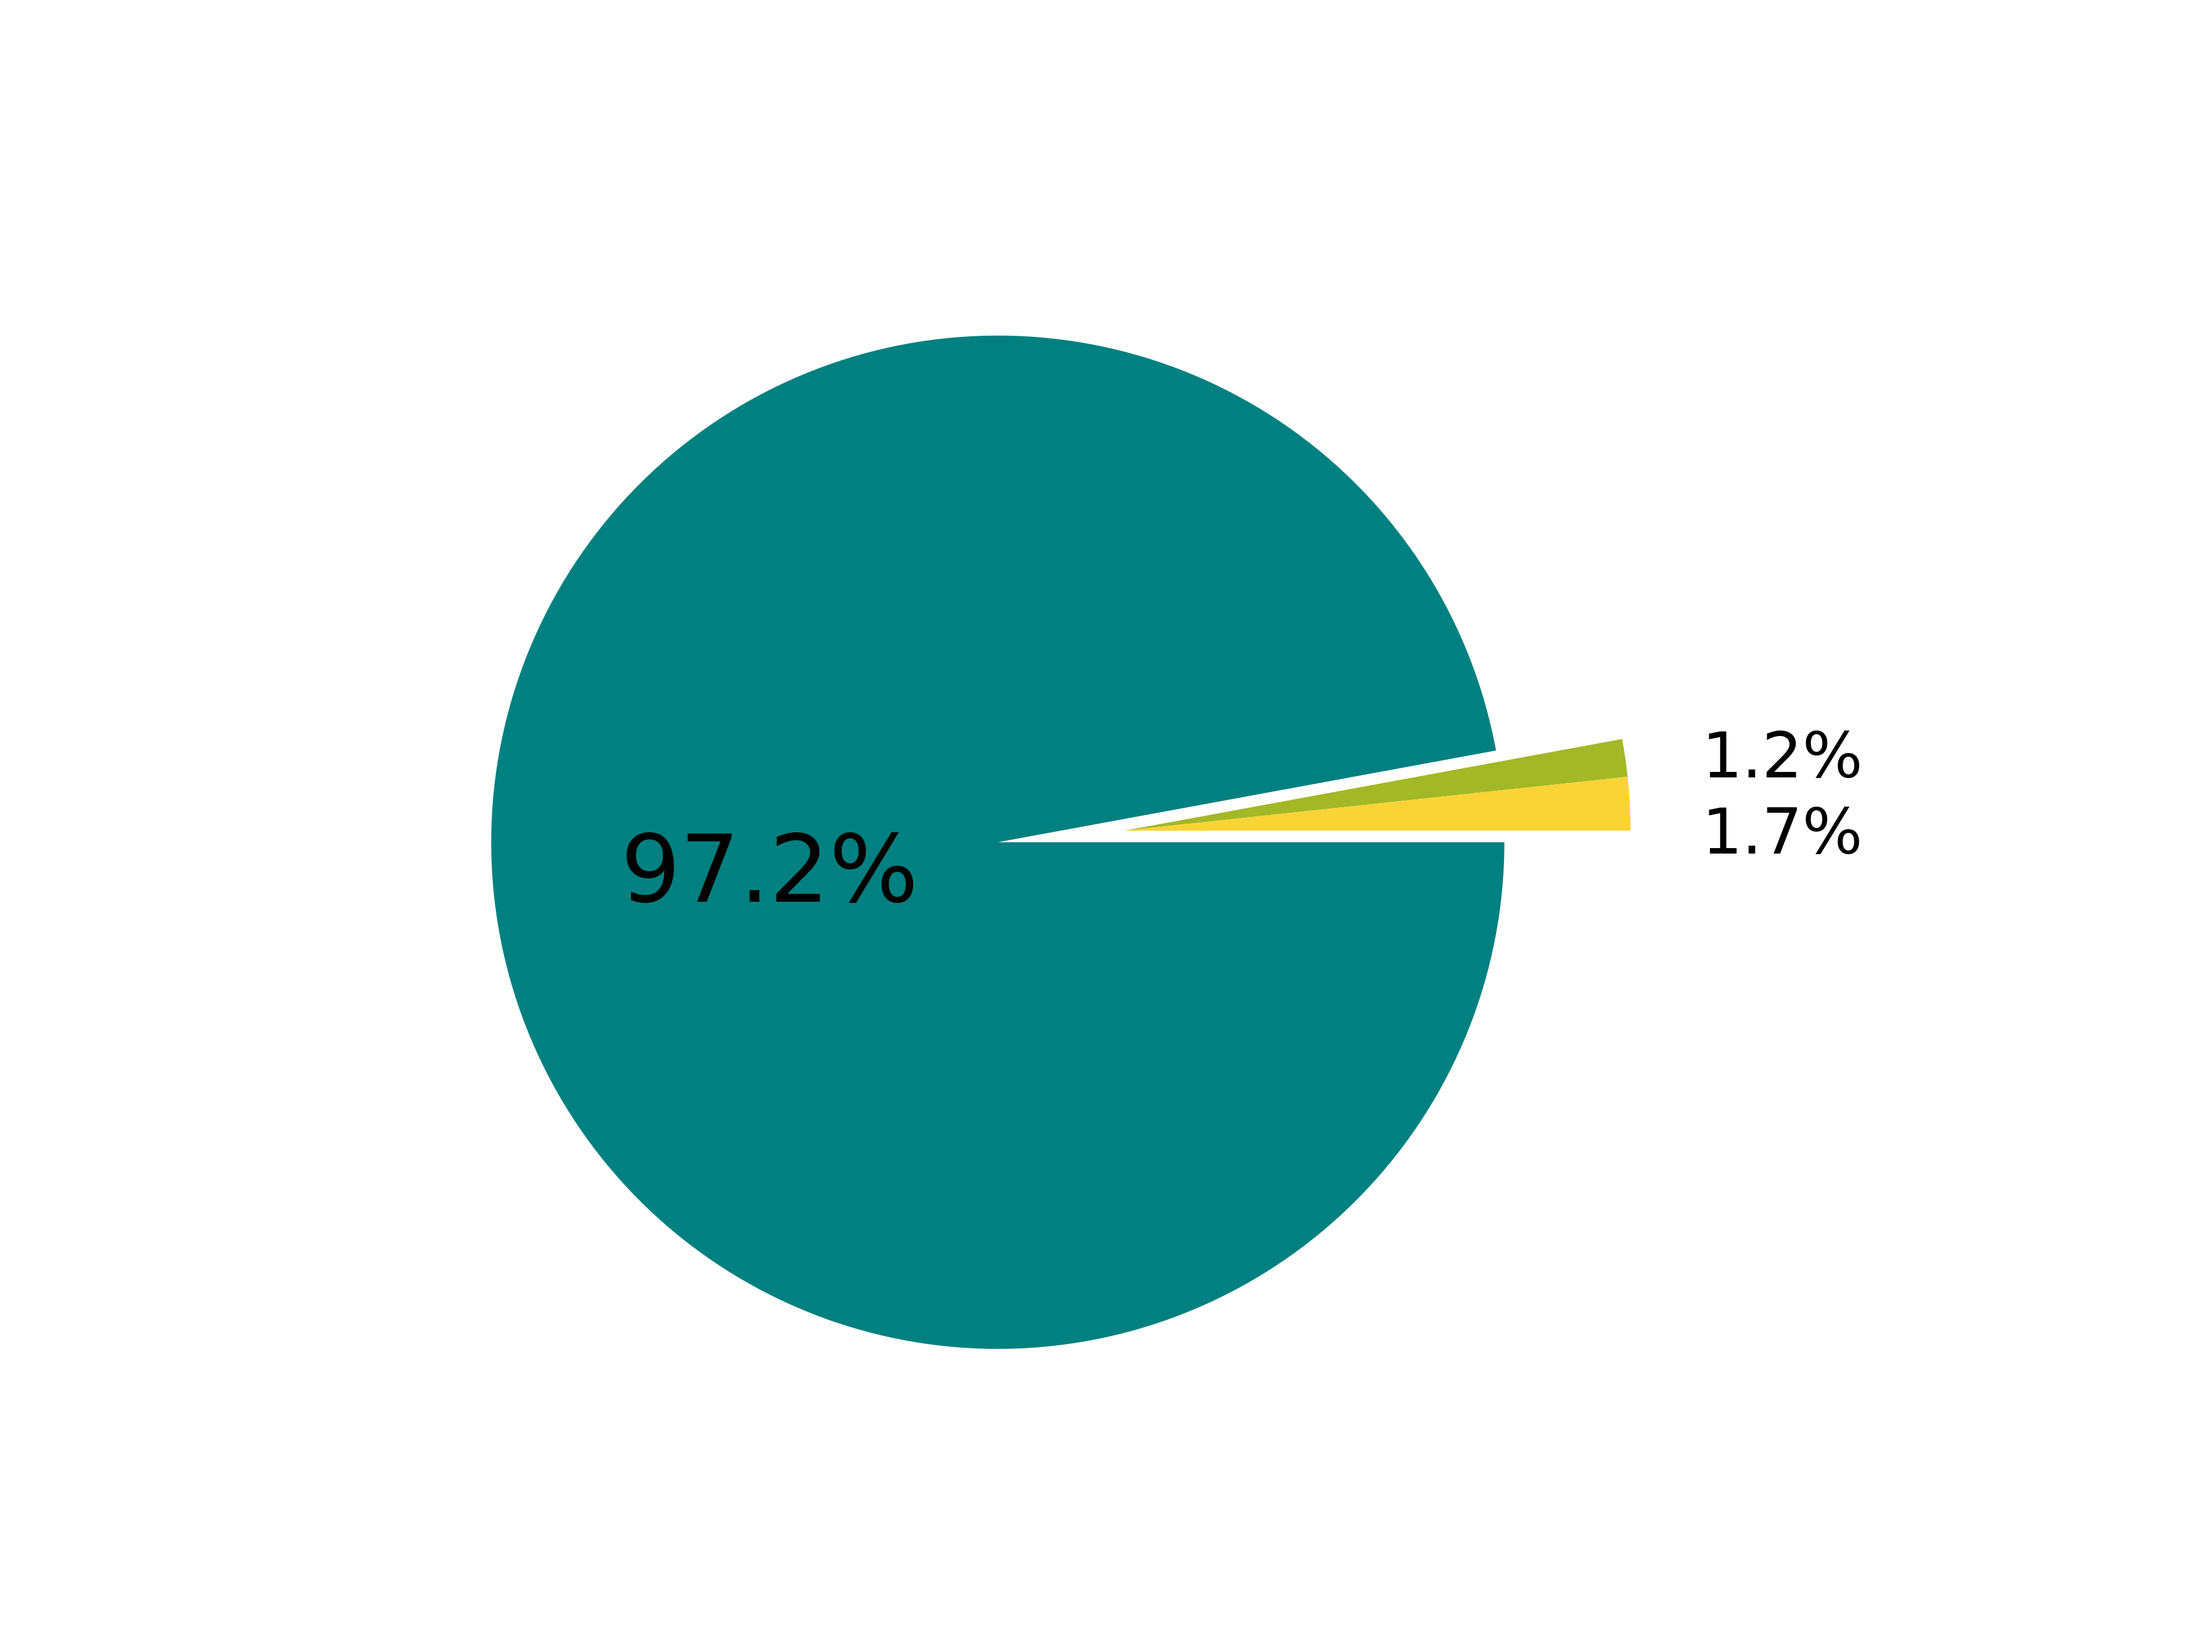
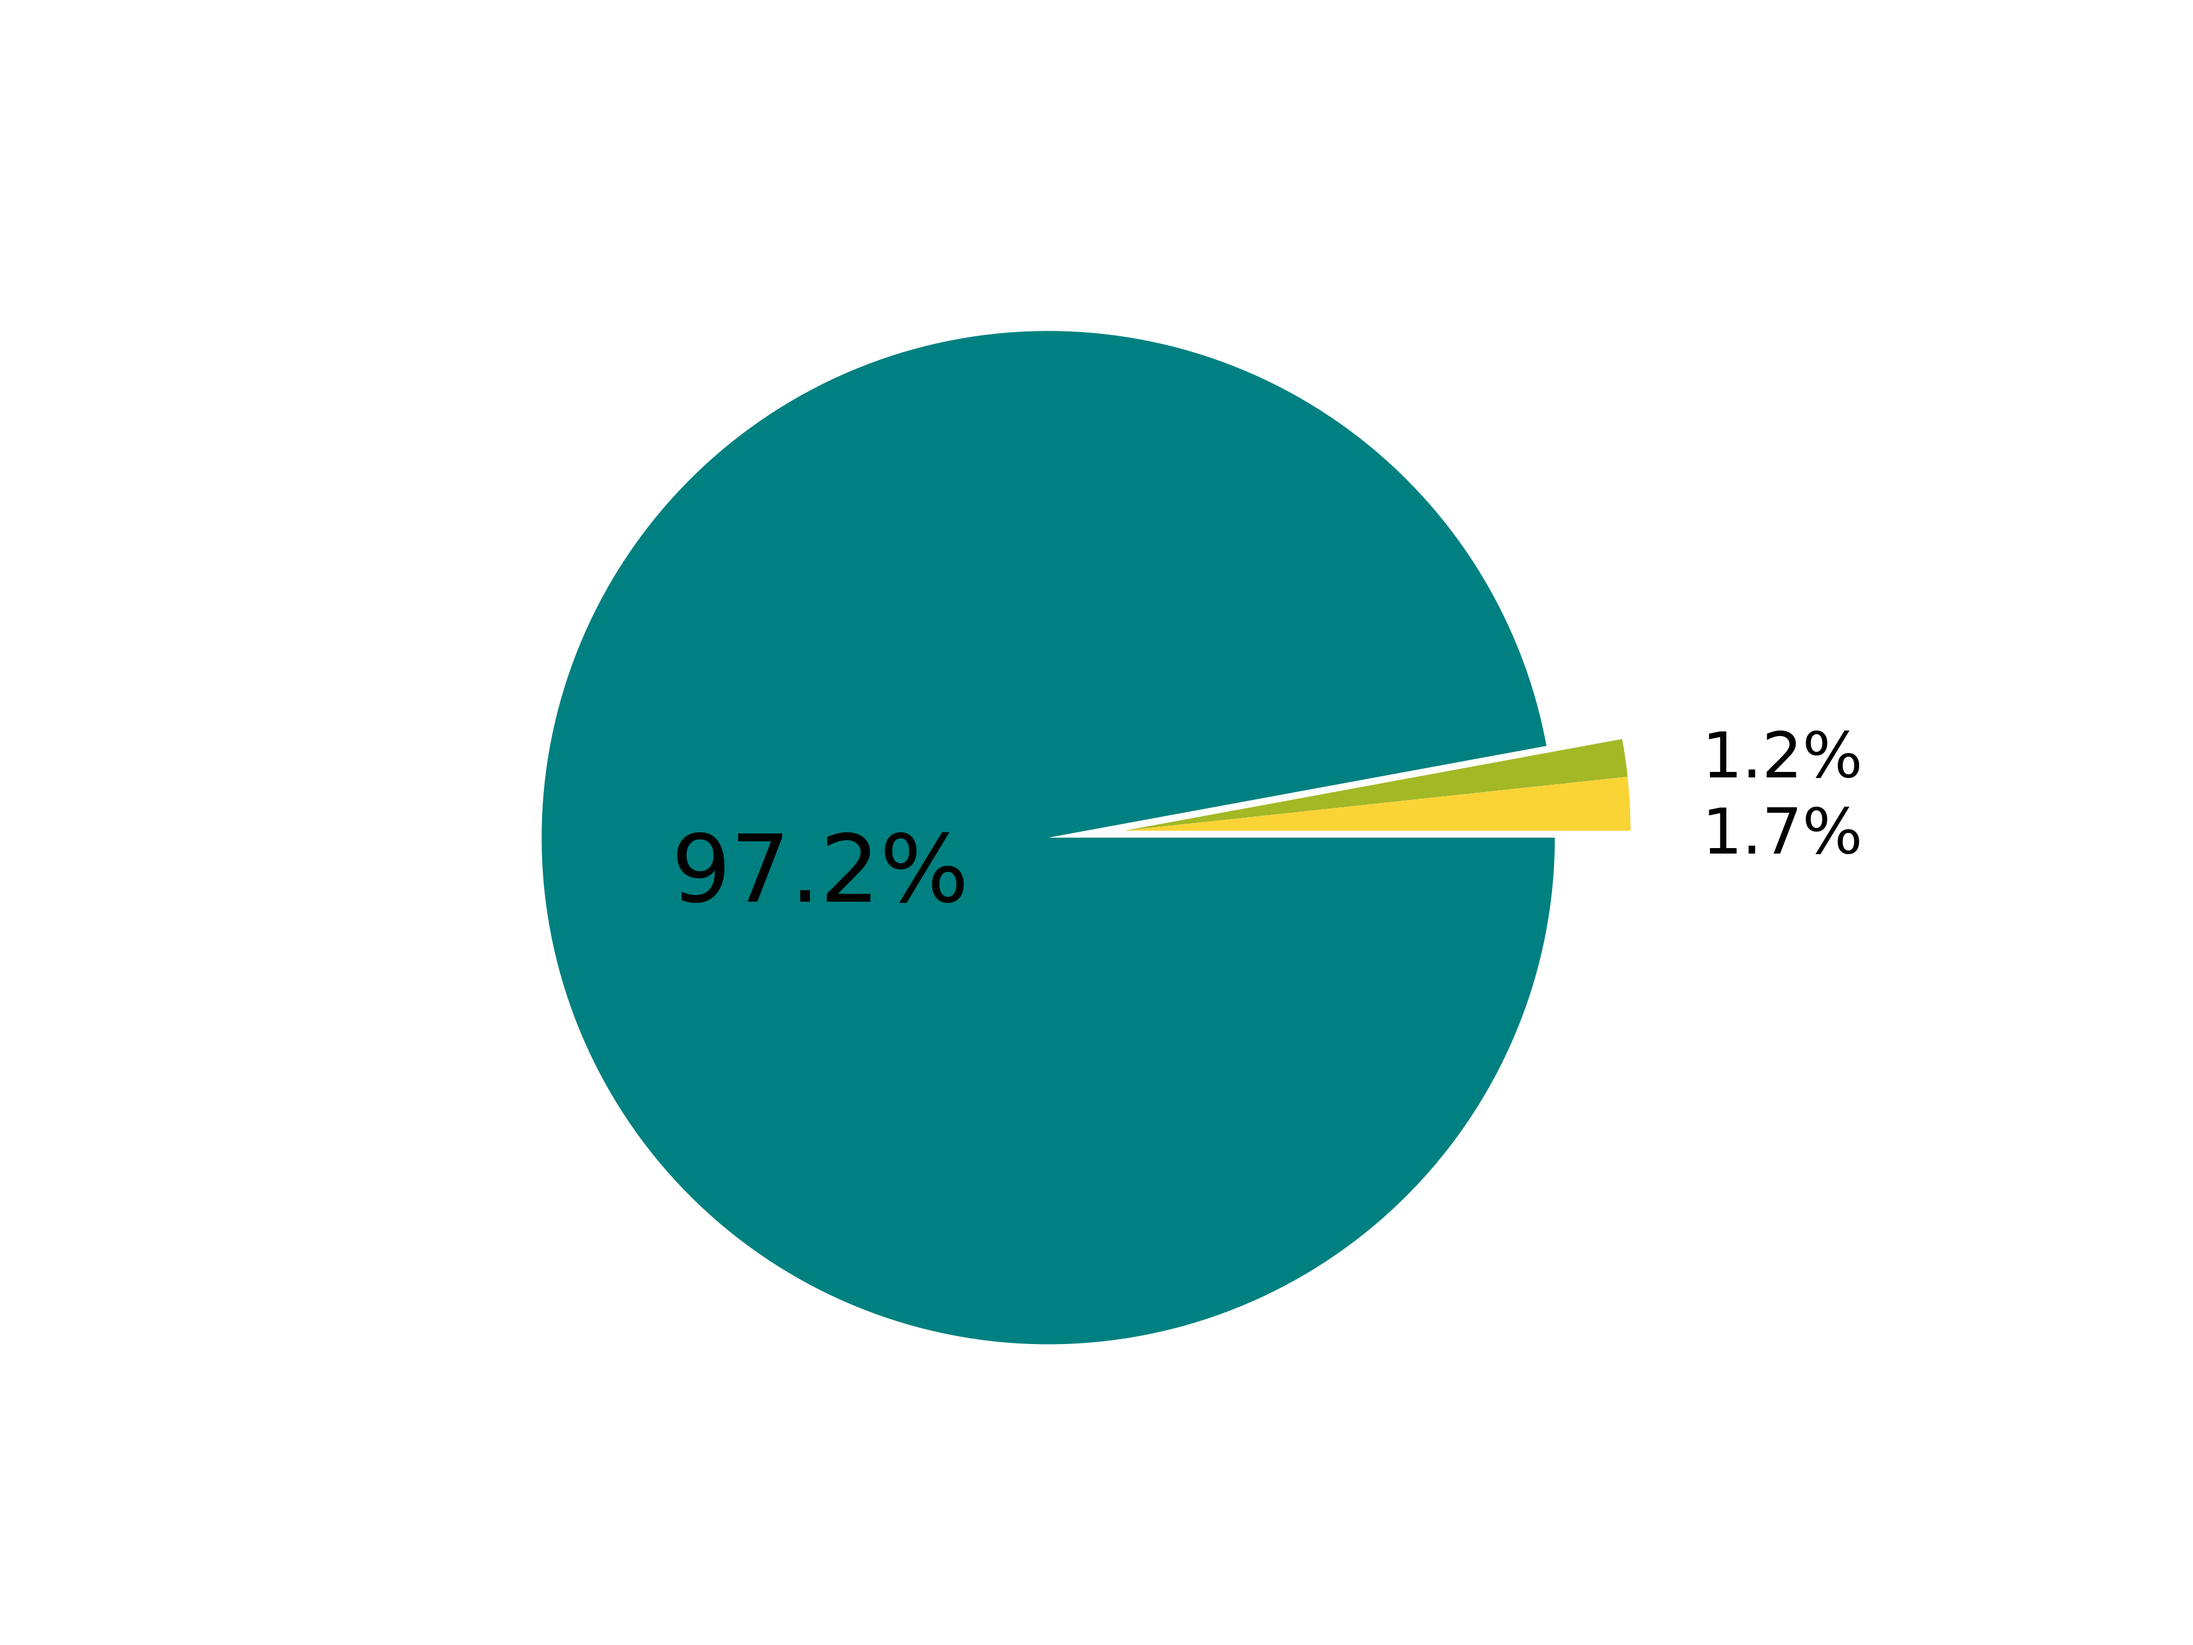
modification of Code_exe

diff --git a/Energy_Balance2021/PieChart/Code_exe_PEC.py b/Energy_Balance2021/PieChart/Code_exe_PEC.py
@@ -1,7 +1,7 @@
 import pandas as pd
 import numpy as np
 from Function_PieChart_Electricity_Gen import *
-from Func_PieChart_PEC_FEC import *
+from Function_PieChart_PEC_FEC import *
 
 # -------  Config for PRIMARY ENERGY CONSUMPTION ------- #
 
@@ -12,8 +12,8 @@ file = pd.read_excel(path, sheet_name="Energy Balance-2021", header=44)
 # create Dataframe "df" for the concerned table [PRIMARY ENERGY CONSUMPTION (PEC)]
 df = file.iloc[0:12, 0:3]
 print(df)
-# Config data parameters
 
+# Config data parameters
 energy_glob = df['Energy Form'].iloc[0:11]
 value_energy = df['TOE'].iloc[0:11]
 share = df['Share'].iloc[0:11]
@@ -22,32 +22,55 @@ total_TOE = df.loc[11][1]
 # Change share values to percent
 share_percent = []
 for i in share.values:
-    share_percent.append(round(i*100, 1))
+    share_percent.append(round(i*100, 2))
 share_percent = np.array(share_percent)
 print("% share :", share_percent)
 
 # -------  Config Data PEC (2 chart) ------- #
 
-# 1st data pie chart
+# data (1st Chart)
 energy1 = energy_glob[0:6]
-label_print_chart1 = '', '', '', 'LPG(3.28%)', 'Jet A1(2.27%)', ''
+label_print_chart1 = ['', '', '', f'{energy1[3]}({share_percent[3]}%)', f'{energy1[4]}({share_percent[4]}%)', '']
 value_percent1 = np.append(share_percent[0:5], sum(share_percent[5:11]))
 print("Energy 1 tech:", energy1.tolist())        # add wind for close the chart
 print("% values for 1st chart:", value_percent1)
 
+# config (1st Chart)
 colors1 = ['Teal', '#269393', '#42a1a1', '#67b3b3', '#bbdddd', '#ffa600']
 explode1 = (0.001, 0.01, 0.01, 0.01, 0.01, 0.1)
 label_dist1 = 1.1
 wedges1 = {'linewidth': 1, 'edgecolor': 'white'}
 text1 = {'fontsize': 13, 'color': 'black'}
 
-# 2nd data pie chart
-energy2 = energy_glob[5:11]
-label_print_chart2 = '', '', 'Solar Thermal(0.04%)', 'Fuelwood(0.03%)', 'Kerosene(0.01%)', 'Avgas(0.005%)'
-value_chart2 = value_energy[5:11].tolist()
-print("Energy 2 tech:", energy2.tolist())
-print("TOE values for 2st chart:", value_chart2)
+# 2nd data pie chart [ Sorted DATA for obtain chart descending ]
+# Creating a new DataFrame sorted for print chart ascending
+# ----------------------------------- #
+df_sorted = df[5:11].sort_values('TOE', ascending=False)
 
+df_values = []                  # get values
+for values in df_sorted.values:
+    df_values.append(values)
+
+df_keys = []                    # get columns
+for columns in df_sorted.columns:
+    df_keys.append(columns)
+
+new_df = pd.DataFrame(df_values, columns=df_keys)       # make new DataFrame with good indexes
+print(new_df)
+# ----------------------------------- #
+share_percent_sorted = []
+for share in df_sorted['Share']:
+    share_percent_sorted.append(round(share*100, 2))
+print(share_percent_sorted)
+
+# data (2nd Chart)
+energy2 = new_df['Energy Form']
+
+label_print_chart2 = ['', '', f'{energy2[2]}({share_percent_sorted[2]}%)', f'{energy2[3]}({share_percent_sorted[3]}%)',
+                      f'{energy2[4]}({share_percent_sorted[4]}%)', f'{energy2[5]}({share_percent_sorted[5]}%)']
+value_chart2 = value_energy[5:11].sort_values(ascending=False)      # for print chart sorted descending
+
+# config (2nd Chart)
 colors2 = ['#ffa600', '#ffb833', '#ffc966', '#ffd280', '#ffdb99', '#ffedcc']
 explode2 = (0.001, 0.01, 0.01, 0.01, 0.01, 0.01)
 label_dist2 = 1.05
@@ -56,19 +79,19 @@ text2 = {'fontsize': 12, 'color': 'black'}
 
 # ------- Function Chart ------- #
 
-fig = figure(14, 9)
-chart_1 = Chart(1, 2, 1)
-chart_2 = Chart(1, 2, 2)
+fig = figure(20, 9)
+chart_1 = Chart(1, 2, 1)                # get subplot chart1 by Class (inside other .py)
+chart_2 = Chart(1, 2, 2)                # get subplot chart2 by Class (inside other .py)
 subplot1 = chart_1.pie_chart(value_percent1, label_print_chart1, colors1, explode1, label_dist1, wedges1, text1)
 subplot2 = chart_2.pie_chart(value_chart2, label_print_chart2, colors2, explode2, label_dist1, wedges1, text1)
 
 # ------- Function Text ------- #
 
-print_text(-3.0, -0.4, str(energy_glob[0]) + "\n" + str(share_percent[0]) + "%", 20, "black", "top", "center")
-print_text(-3.4, 0.6, str(energy_glob[1]) + "\n" + str(share_percent[1]) + "%", 20, "black", "top", "center")
-print_text(-2.5, 0.55, str(energy_glob[2]) + "\n" + str(share_percent[2]) + "%", 14, "black", "top", "center")
-print_text(-0.5, 0.2, str(energy_glob[5]) + "\n" + str(share_percent[5]) + "%", 20, "black", "top", "center")
-print_text(0.3, -0.4, str(energy_glob[6]) + "\n" + str(share_percent[6]) + "%", 20, "black", "top", "center")
+print_text(-3.02, -0.4, str(energy_glob[0]) + "\n" + f"({str(round(share_percent[0]))}%)", 20, "black", "top", "center")
+print_text(-3.4, 0.6, str(energy_glob[1]) + "\n" + f"({str(round(share_percent[1]))}%)", 20, "black", "top", "center")
+print_text(-2.5, 0.55, str(energy_glob[2]) + "\n" + f"({str(round(share_percent[2]))}%)", 17, "black", "top", "center")
+print_text(-0.4, 0.45, str(energy_glob[5]) + "\n" + f"({str(share_percent[5])}%)", 20, "black", "top", "center")
+print_text(0.05, -0.4, str(energy_glob[6]) + "\n" + f"({str(share_percent[6])}%)", 20, "black", "top", "center")
 
 # ------- Print Chart------- #
 

diff --git a/Energy_Balance2021/PieChart/Code_exe_FEC.py b/Energy_Balance2021/PieChart/Code_exe_FEC.py
@@ -1,0 +1,95 @@
+import pandas as pd
+import numpy as np
+from Function_PieChart_Electricity_Gen import *
+from Function_PieChart_PEC_FEC import *
+
+# -------  Config for FINAL ENERGY CONSUMPTION ------- #
+
+# Read .xlsx (excel file) ; sheet_name = "Energy Balance-2021"
+path = "C:/Users/jerem/PycharmProjects/pythonProject/Infography/Energy_Balance2021/Seychelles Energy Balance For 2021 - ver2 2.xlsx"
+file = pd.read_excel(path, sheet_name="Energy Balance-2021", header=76)
+
+# create Dataframe "df" for the concerned table [FINAL ENERGY CONSUMPTION (FEC)]
+df = file.iloc[0:10, 0:3]
+
+# -------------- Sorted DataFrame descending -------------- #
+df_sorted = df.sort_values('TOE', ascending=False)
+
+df_values = []                  # get values
+for values in df_sorted.values:
+    df_values.append(values)
+
+df_keys = []                    # get columns
+for columns in df_sorted.columns:
+    df_keys.append(columns)
+
+new_df = pd.DataFrame(df_values, columns=df_keys)
+# -------------------------------------------------------- #
+
+# Config global data parameters
+energy_glob = new_df['Energy Form']
+value_energy = new_df['TOE']
+share = new_df['Share']
+total_TOE = file.loc[10][1]
+print("Total :", total_TOE, "TOE")
+
+# Create new column for percentage of 'Share'
+share_percent = np.array([])
+for i in share.values:
+    share_percent = np.append(share_percent, round(i*100, 2))
+new_df.insert(3, 'Share %', share_percent, allow_duplicates=False)
+print(new_df)
+
+# -------  Config Data FEC (2 charts) ------- #
+
+# data (1st Chart)
+energy1 = energy_glob[0:6]
+label_print_chart1 = ['', '', '', f'{energy1[3]}({share_percent[3]}%)', f'{energy1[4]}({share_percent[4]}%)',
+                      f'{energy1[5]}({share_percent[5]}%)', '']
+value_percent1 = np.append(share_percent[0:6], sum(share_percent[6:11]))
+print("Energy 1 tech:", energy1.tolist())        # add wind for close the chart
+print("% values for 1st chart:", value_percent1)
+
+# config (1st Chart)
+colors1 = ['#00b386', '#269393', '#42a1a1', '#67b3b3', '#bbdddd', '#ffffff', '#ffcc00']
+explode1 = (0.001, 0.01, 0.01, 0.01, 0.01, 0.01, 0.1)
+label_dist1 = 1.1
+wedges1 = {'linewidth': 1, 'edgecolor': 'white'}
+text1 = {'fontsize': 13, 'color': 'black'}
+
+# 2nd data pie chart [ Sorted DATA for obtain chart descending ]
+# data (2nd Chart)
+energy2 = energy_glob[6:10]
+label_print_chart2 = ['', '', '', f'{energy2[9]}({share_percent[9]}%)']
+value_chart2 = value_energy[6:10]
+print("Energy 2 tech:", energy2.tolist())        # add wind for close the chart
+print("% values for 2nd chart:", new_df['Share %'][6:10].tolist())
+
+# config (2nd Chart)
+colors2 = ['#ffa600', '#ffb833', '#ffc966', '#ffdb99']
+explode2 = (0.001, 0.01, 0.01, 0.01)
+label_dist2 = 0.25
+wedges2 = {'linewidth': 1, 'edgecolor': 'white'}
+text2 = {'fontsize': 17, 'color': 'black'}
+
+# ------- Function Chart ------- #
+
+fig = figure(20, 9)
+chart_1 = Chart(1, 2, 1)                # get subplot chart1 by Class (inside other .py)
+chart_2 = Chart(1, 2, 2)                # get subplot chart2 by Class (inside other .py)
+subplot1 = chart_1.pie_chart(value_percent1, label_print_chart1, colors1, explode1, label_dist1, wedges1, text1)
+subplot2 = chart_2.pie_chart(value_chart2, label_print_chart2, colors2, explode2, label_dist2, wedges1, text1)
+
+# ------- Function Text ------- #
+
+print_text(-2.9, -0.4, str(energy_glob[0]) + "\n" + f"({str(round(share_percent[0]))}%)", 20, "black", "top", "center")
+print_text(-3.6, 0.25, str(energy_glob[1]) + "\n" + f"({str(round(share_percent[1]))}%)", 20, "black", "top", "center")
+print_text(-2.95, 0.7, str(energy_glob[2]) + "\n" + f"({str(round(share_percent[2]))}%)", 20, "black", "top", "center")
+print_text(0.1, -0.35, str(energy_glob[6]) + "\n" + f"({str(share_percent[6])}%)", 22, "black", "top", "center")
+print_text(-0.5, 0.27, str(energy_glob[7]) + "\n" + f"({str(share_percent[7])}%)", 20, "black", "top", "center")
+print_text(0.3, 0.6, str(energy_glob[8]) + "\n" + f"({str(share_percent[8])}%)", 20, "black", "top", "center")
+
+# ------- Print Chart------- #
+
+plt.savefig('FEC2021.png', transparent=True, dpi=300)
+plt.show()

diff --git a/Energy_Balance2021/PieChart/Elect_Consump.py b/Energy_Balance2021/PieChart/Elect_Consump.py
@@ -1,34 +1,36 @@
-import matplotlib.pyplot as plt
-import matplotlib as mpl
-import numpy as np
 import pandas as pd
-import seaborn as sns
-from matplotlib import patches
+import numpy as np
+from Function_PieChart_Electricity_Gen import *
+from Function_PieChart_PEC_FEC import *
 
+# -------  Config for SECTORIAL ENERGY CONSUMPTION ------- #
 
- #########       GENERATE FIGURE         ##########
+# Build DataFrame
+data = {'Domestic': 138745369,
+        'Industry & Commercial': 207422855,
+        'Government': 55489598 - 1019437,
+        'Street Lights':  1019437}
 
-fig = plt.figure(figsize=(12,9))
+df = pd.DataFrame(data)
 
- #########      GENERATE DATAFRAME (PIE CHART)  #########
-
-#1st Pie Chart
-Energies1 = '','','',''
+print(df)
+# 1st Pie Chart
+sectors = 'Domestic', '', '', ''
 Generation1 = [52.3, 35.1, 12.4, 0.8]
 Colors1 = ['#00b386', '#269393', '#ffb833', '#fff180']
 explode1 = (0, 0, 0, 0)
 
  #########      GENERATE GRAPHIQUE      ##########
 
-plt.pie(x=Generation1, labels=Energies1, colors=Colors1,
-        labeldistance=1.1, #or None
-        #explode=explode1,
-        autopct=None, #or None
-        shadow=False, startangle=-0, counterclock=False, frame=False,
-       #center=(1.2,1.2),
-        wedgeprops = { 'linewidth' : 1, 'edgecolor' : 'white' },
-        textprops = {'fontsize': 13, 'color': 'black'},
-        )
+# plt.pie(x=Generation1, labels=Energies1, colors=Colors1,
+#         labeldistance=1.1, #or None
+#         #explode=explode1,
+#         autopct=None, #or None
+#         shadow=False, startangle=-0, counterclock=False, frame=False,
+#        #center=(1.2,1.2),
+#         wedgeprops = { 'linewidth' : 1, 'edgecolor' : 'white' },
+#         textprops = {'fontsize': 13, 'color': 'black'},
+#         )
 
 #plt.title('Store Inventory')
 #plt.ylabel('Product')

diff --git a/Energy_Balance2021/PieChart/Code_exe_keyfigure.py b/Energy_Balance2021/PieChart/Code_exe_keyfigure.py
@@ -36,7 +36,7 @@ print(value_percent)
 
 # Config pie chart
 colors_share = ['Teal', '#a3b825','#fad335']
-gap = (0.25, 0, 0)
+gap = (0.15, 0, 0)
 
 # ---------------- CALL FUNCTION ---------------- #
 
@@ -47,7 +47,7 @@ figure(12, 9)
 pie_chart(value_percent, energy_key, colors_share, gap)
 
 # Call function print_text(x, y, txt, fontsize, color, verti_align, horiz_align, bbox=None)
-print_text(0.5, 1.2, str(value_percent[0]) + "%", 37, "black", 'top', 'center')         #Fuel oil
+print_text(0.6, 1.2, str(value_percent[0]) + "%", 37, "black", 'top', 'center')         #Fuel oil
 print_text(2.5, 1.4, str(value_percent[1]) + "%", 25, "black", 'top', 'center')         #Wind
 print_text(2.5, 1.25, str(value_percent[2]) + "%", 25, "black", 'top', 'center',)       #Solar
 
